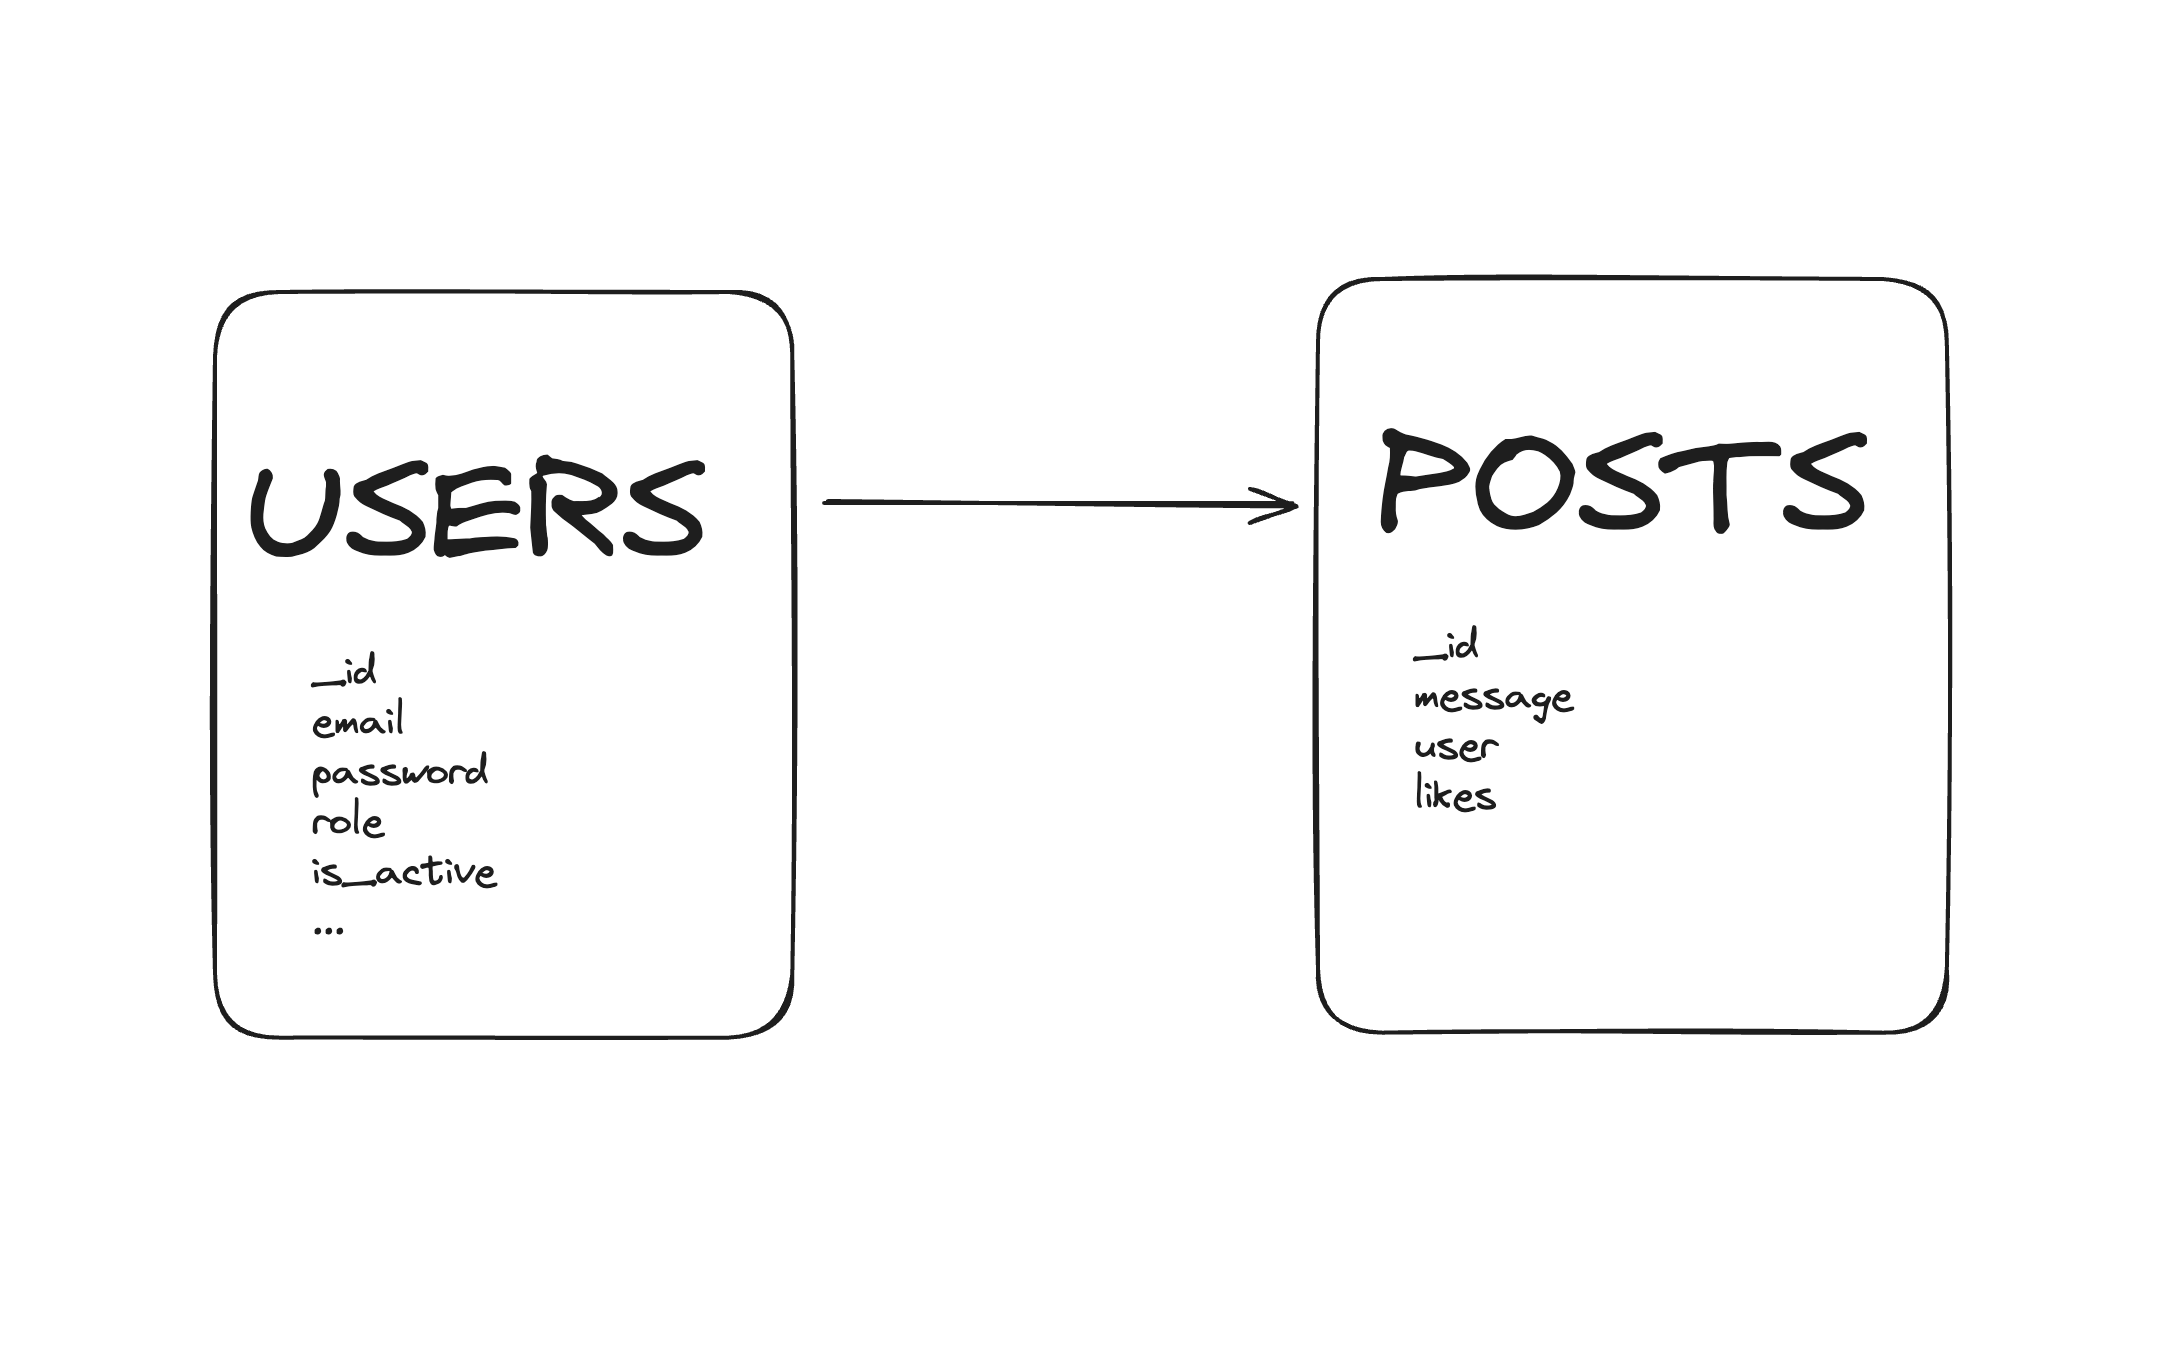
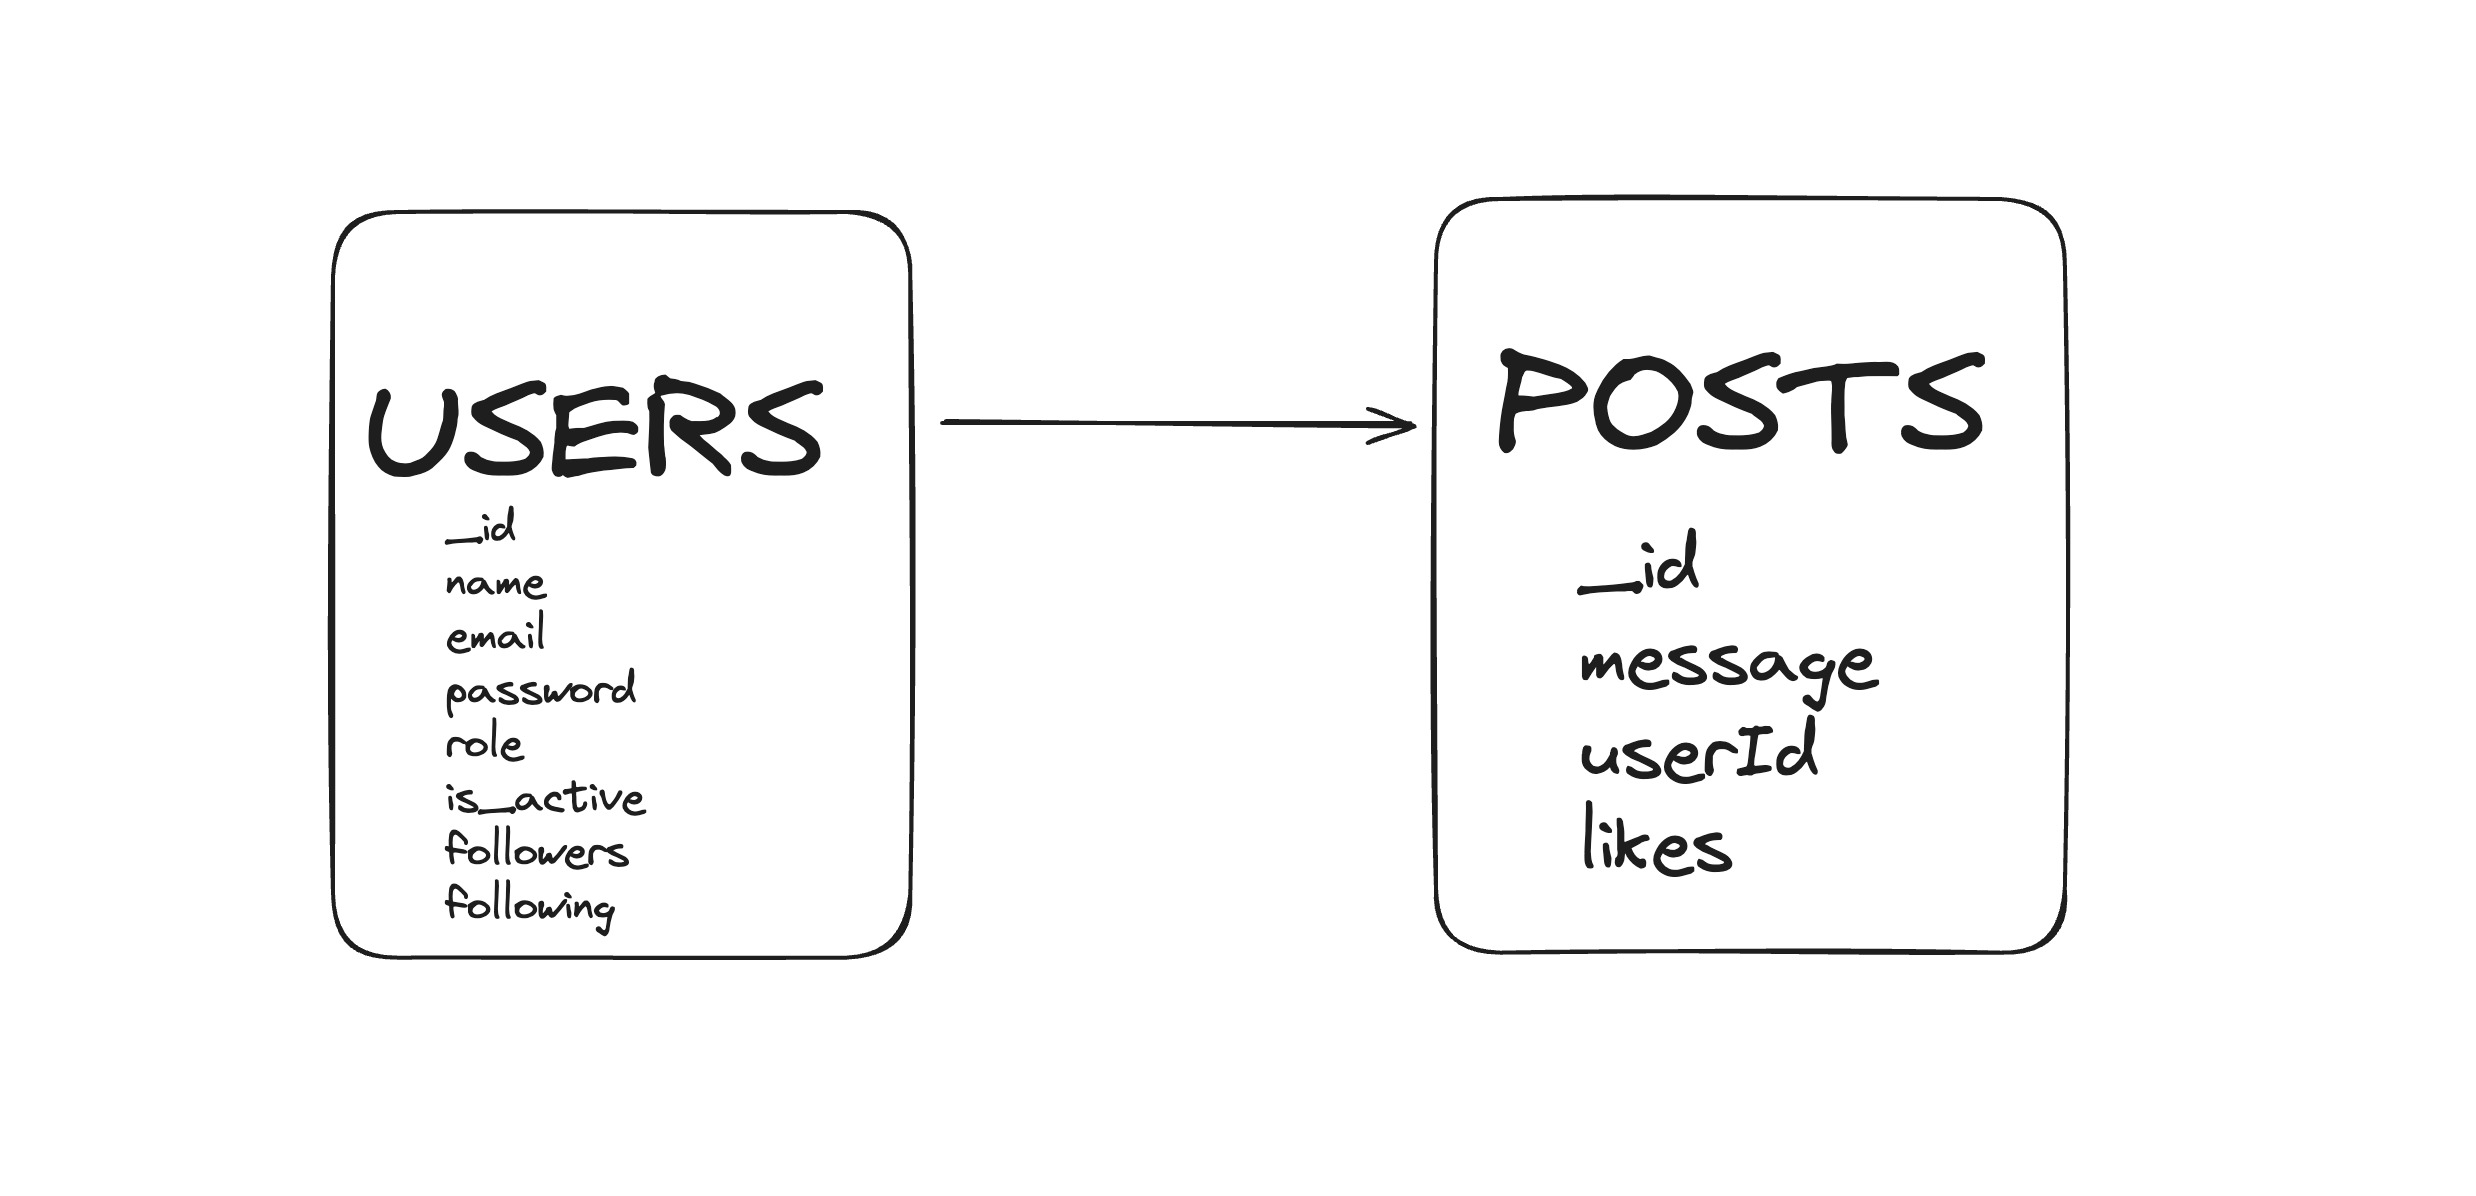
feat: post seeders added

diff --git a/src/database/seeders/userSeeder.js b/src/database/seeders/userSeeder.js
@@ -1,7 +1,7 @@
 import mongoose from "mongoose";
 import 'dotenv/config';
 import bcrypt from 'bcrypt';
-import User from "../../entities/users/user.model";
+import User from "../../entities/users/user.model.js";
 
 export const userSeeder = async () => {
     try {
@@ -9,29 +9,32 @@ export const userSeeder = async () => {
 
         const users = [
             {
+                _id: "65edc829352c4f2a5cf087af",
                 email: "yoana@banana.com",
                 password: bcrypt.hashSync("123456789", parseInt(process.env.SALT_ROUNDS))
             },
             {
+                _id: "65edc842352c4f2a5cf087b3",
                 email: "morena@morepe.com",
                 password: bcrypt.hashSync("123456789", parseInt(process.env.SALT_ROUNDS))
             },
             {
+                _id: "65edc858352c4f2a5cf087b7",
                 email: "dani@dani.com",
                 password: bcrypt.hashSync("123456789", parseInt(process.env.SALT_ROUNDS))
             },
             {
+                _id: "65edc873352c4f2a5cf087bb",
                 email: "nina@nina.com",
                 password: bcrypt.hashSync("123456789", parseInt(process.env.SALT_ROUNDS))
             },
             {
+                _id: "65edc887352c4f2a5cf087bf",
                 email: "javier@javier.com",
                 password: bcrypt.hashSync("123456789", parseInt(process.env.SALT_ROUNDS))
             }
         ]
-
         await User.insertMany(users)
-
         console.log('===================')
         console.log('User seeder executed successfully!')
         console.log('===================')
@@ -43,5 +46,4 @@ export const userSeeder = async () => {
         await mongoose.connection.close()
     }
 }
-
 export default userSeeder

diff --git a/src/database/seeders/postSeeder.js b/src/database/seeders/postSeeder.js
@@ -1,0 +1,38 @@
+import mongoose from "mongoose";
+import 'dotenv/config';
+import Post from '../../entities/posts/post.model.js';
+
+export const postSeeder = async () => {
+    try {
+        await mongoose.connect(process.env.MONGO_URI, {})
+        const posts = [
+            {
+                message: "Hi world, first post here!",
+                userId: "65edc829352c4f2a5cf087af"
+            },
+            {
+                message: "Today was a good day for USA, lets see tomorrow!",
+                userId: "65edc842352c4f2a5cf087b3"
+            },
+            {
+                message: "Weather is disgusting! Ewwww!",
+                userId: "65edc858352c4f2a5cf087b7"
+            },
+            {
+                message: "Just saw the new MacBook prototype! Awesome!",
+                userId: "65edc887352c4f2a5cf087bf"
+            }
+        ]
+        await Post.insertMany(posts)
+        console.log('===================')
+        console.log('Posts seeder executed successfully!')
+        console.log('===================')
+    } catch (error) {
+        console.log('===================')
+        console.log('Error in execution of posts seeder:', error)
+        console.log('===================')
+    } finally {
+        await mongoose.connection.close()
+    }
+}
+export default postSeeder

diff --git a/README.md b/README.md
@@ -64,7 +64,7 @@ Used technologies for the project:
 </a>
  </div>
 
-## ER Diagram from SQL
+## Schema from Mongo
 
 <img src="./img/Schema.png">
 
@@ -73,17 +73,18 @@ Used technologies for the project:
 <br>
 
 Even that we have a non relational database project, there is a relation between
-the posts and users as a post cannot exist by itself. A post can have likes such as user can have followers and followings.
+the posts and users as a post cannot exist by itself. A post can have likes such as user can have users that he/she follows and on the contrary users that are following.
 
-## Local installation option
+## Local installation guide
 
-1. Clone the repository from the url
-2. `$ npm install`
-3. Connect the cloned repo with our Database
-4. `$ Execute the migrations`
-5. `$ Execute the seeders`
-6. `$ npm run dev` to elevate our server
-7. ...
+1. Clone the repository from the url:
+`git clone https://github.com/yoanastamenova/Social_media.git `
+2. Connect the cloned repo with MongoDB 
+-  If you dont have Mongo we can use already existing Mongo container from Docker with the following command:
+` docker run -d -p 27017:27017 --name mongo -v mongo_data:/data/db -e MONGO_INITDB_ROOT_USERNAME=root -e MONGO_INITDB_ROOT_PASSWORD=root mongo:latest `
+3. `npm install`  (to get all the npm needed packages)
+4. `npm run dev` to run our server
+5. ` npm run seeds ` to fill our documents
 
 ## Endpoints
 
@@ -388,10 +389,9 @@ the posts and users as a post cannot exist by itself. A post can have likes such
 
 ## Future functionalities 
 <br>
-✅ Add artists and relate them with appointments (still in progress) <br>
+✅ Add timeline option <br>
 ⬜ Add user biometrics <br>
-⬜ Email and password validations <br>
-⬜ ...  <br>
+⬜ Include profile privacy options <br>
 
 ## Contribute to the project
 
